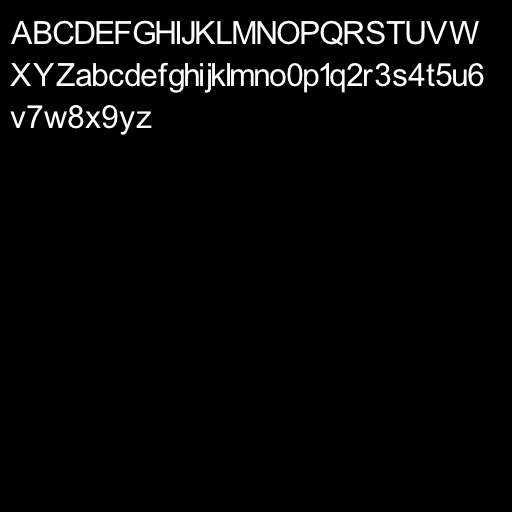
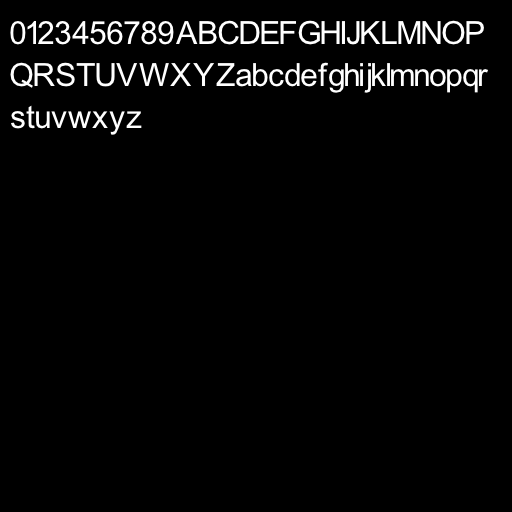
Make font atlas glyph placement order deterministic

Changed region(s): [[0.0, 0.125, 0.9688, 0.2812], [0.0, 0.0312, 0.9688, 0.0938]]

diff --git a/providers/fontatlas_provider.cpp b/providers/fontatlas_provider.cpp
@@ -3,7 +3,7 @@
 #include "thirdparty/stb_mini_ttf/stb_mini_ttf.h"
 
 #include <list>
-#include <unordered_set>
+#include <set>
 #include <unordered_map>
 
 // TODO: if requested with blur, precache with blur = 0 as well
@@ -102,7 +102,7 @@ namespace resource {
         void update(float dtSec) override;
         
     private:
-        FontAtlas *_collectChars(const char *text, std::uint8_t fontSize, std::uint8_t blur, std::vector<FontCharInfo> &readyChars, std::unordered_set<std::uint64_t> &toLoad);
+        FontAtlas *_collectChars(const char *text, std::uint8_t fontSize, std::uint8_t blur, std::vector<FontCharInfo> &readyChars, std::set<std::uint64_t> &toLoad);
         
     private:
         const std::shared_ptr<foundation::PlatformInterface> _platform;
@@ -198,7 +198,7 @@ namespace resource {
         }
         
         std::vector<FontCharInfo> readyChars;
-        std::unordered_set<std::uint64_t> toLoad;
+        std::set<std::uint64_t> toLoad;
         FontAtlas *suitable = _collectChars(text, fontSize, blur, readyChars, toLoad);
         
         if (toLoad.empty()) {
@@ -320,7 +320,7 @@ namespace resource {
         }
 
         std::vector<FontCharInfo> readyChars;
-        std::unordered_set<std::uint64_t> toLoad;
+        std::set<std::uint64_t> toLoad;
         FontAtlas *suitable = _collectChars(text, fontSize, blur, readyChars, toLoad);
         if (toLoad.empty()) {
             outInfo = std::move(readyChars);
@@ -333,7 +333,7 @@ namespace resource {
         return g_empty;
     }
     
-    FontAtlasProviderImpl::FontAtlas *FontAtlasProviderImpl::_collectChars(const char *text, std::uint8_t fontSize, std::uint8_t blur, std::vector<FontCharInfo> &readyChars, std::unordered_set<std::uint64_t> &toLoad) {
+    FontAtlasProviderImpl::FontAtlas *FontAtlasProviderImpl::_collectChars(const char *text, std::uint8_t fontSize, std::uint8_t blur, std::vector<FontCharInfo> &readyChars, std::set<std::uint64_t> &toLoad) {
         FontAtlas *suitable = nullptr;
 
         for (auto atlasIt = _atlases.begin(); atlasIt != _atlases.end(); ++atlasIt) {
